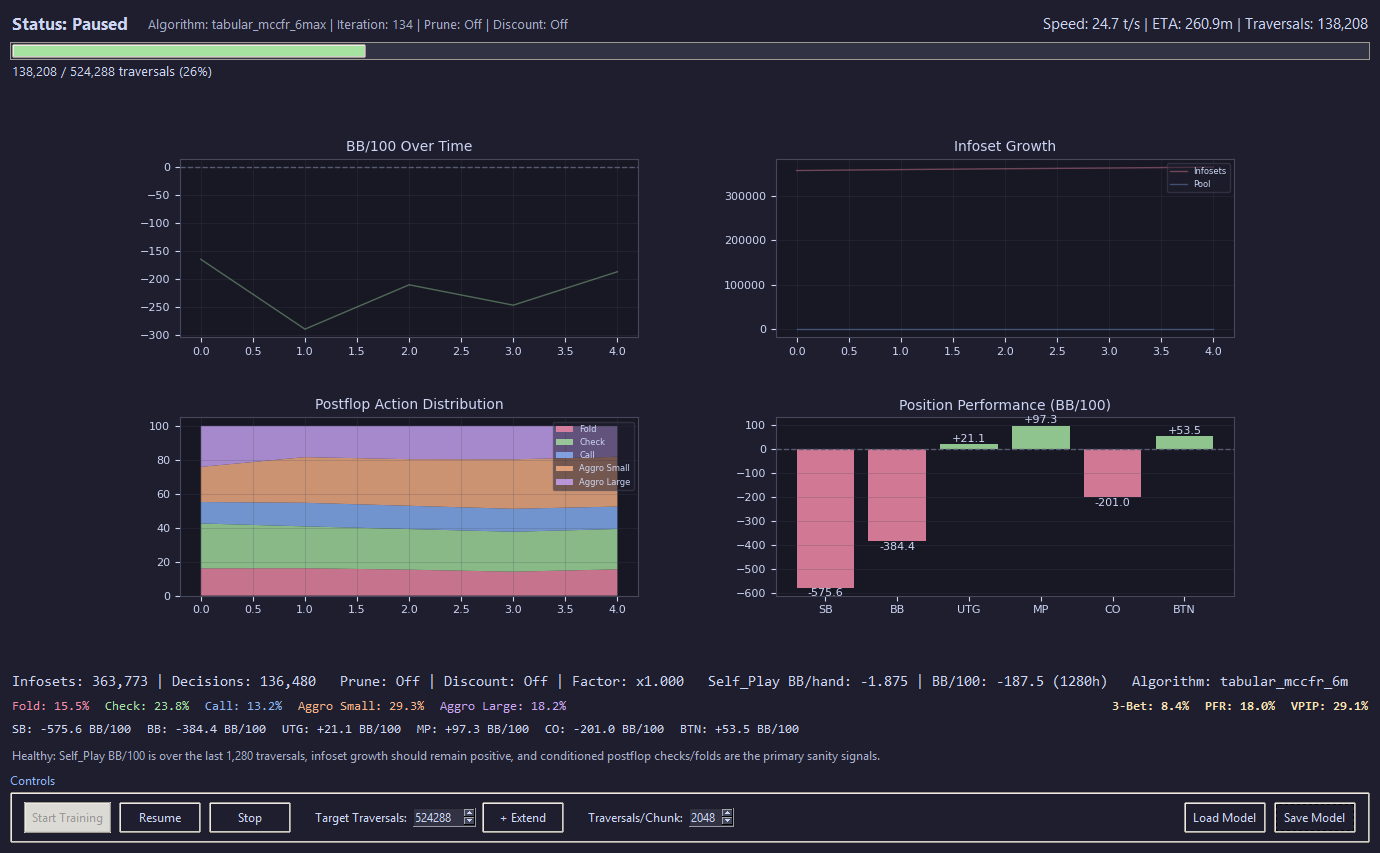
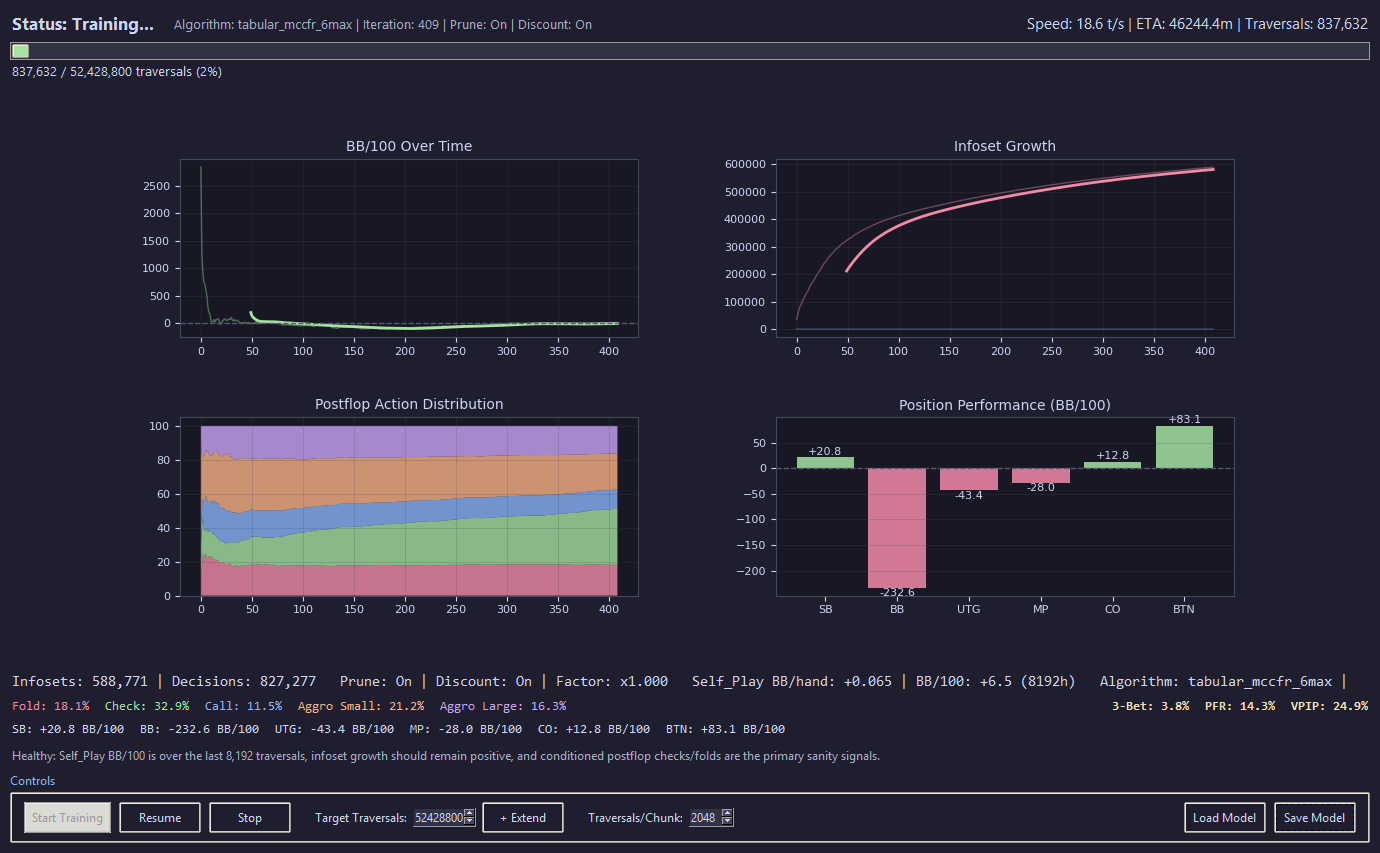
Make mobile work on cloudflare

diff --git a/next-poker-app/app/play/page.tsx b/next-poker-app/app/play/page.tsx
@@ -8,9 +8,10 @@ import PlayPhase from './components/PlayPhase';
 import ResumePrompt from './components/ResumePrompt';
 import WebcamStatus from './components/WebcamStatus';
 import { FULL_RING_SEAT_COUNT, compactSeatMap, getCompactRoleForSeat, getSeatLabel, getTablePosition } from '../lib/tablePositions';
+import { getBackendBaseUrl } from '../lib/backend';
 import type { TableSeatVisual } from './components/TableVisual';
 
-const BACKEND = process.env.NEXT_PUBLIC_BACKEND_URL?.replace(/\/$/, '') ?? 'http://localhost:8000';
+const BACKEND = getBackendBaseUrl();
 const MODEL_VERSION = 'v24';
 const SESSION_COOKIE_NAME = 'poker_session_id';
 const SESSION_COOKIE_MAX_AGE = 86400; // 24 hours

diff --git a/next-poker-app/app/lib/backend.ts b/next-poker-app/app/lib/backend.ts
@@ -1,0 +1,23 @@
+"use client";
+
+function stripTrailingSlash(value: string): string {
+  return value.replace(/\/$/, "");
+}
+
+export function getBackendBaseUrl(): string {
+  const explicitUrl = process.env.NEXT_PUBLIC_BACKEND_URL?.trim();
+  if (explicitUrl) {
+    return stripTrailingSlash(explicitUrl);
+  }
+
+  if (typeof window !== "undefined") {
+    const { hostname, protocol } = window.location;
+    if (hostname === "localhost" || hostname === "127.0.0.1") {
+      return "http://localhost:8000";
+    }
+
+    return `${protocol}//${hostname}:8000`;
+  }
+
+  return "http://localhost:8000";
+}

diff --git a/next-poker-app/app/test/page.tsx b/next-poker-app/app/test/page.tsx
@@ -11,13 +11,12 @@ import {
   createCvStreamSessionId,
   useCvWebRtcStream,
 } from "../lib/useCvWebRtcStream";
+import { getBackendBaseUrl } from "../lib/backend";
 
 type MetricTone = "neutral" | "good" | "warn" | "alert";
 
 const BLUFF_WINDOW_MS = 30_000;
-const BACKEND_BASE_URL =
-  process.env.NEXT_PUBLIC_BACKEND_URL?.replace(/\/$/, "") ??
-  "http://localhost:8000";
+const BACKEND_BASE_URL = getBackendBaseUrl();
 
 const clamp = (v: number, min: number, max: number) =>
   Math.max(min, Math.min(max, v));

diff --git a/next-poker-app/app/join/page.tsx b/next-poker-app/app/join/page.tsx
@@ -10,10 +10,10 @@ import {
   getSeatLabel,
   sixSeatLayout,
 } from '../lib/tablePositions';
+import { getBackendBaseUrl } from '../lib/backend';
 import { useCvWebRtcStream } from '../lib/useCvWebRtcStream';
 
-const BACKEND =
-  process.env.NEXT_PUBLIC_BACKEND_URL?.replace(/\/$/, '') ?? 'http://localhost:8000';
+const BACKEND = getBackendBaseUrl();
 const JOIN_PAGE_STATE_KEY = 'poker.join.page.state';
 const SESSION_STATUS_POLL_INTERVAL_MS = 3000;
 

diff --git a/next-poker-app/app/play/components/WebcamStatus.tsx b/next-poker-app/app/play/components/WebcamStatus.tsx
@@ -2,9 +2,9 @@
 
 import { useCallback, useEffect, useRef, useState } from 'react';
 import { FULL_RING_SEAT_COUNT, getSeatLabel } from '../../lib/tablePositions';
+import { getBackendBaseUrl } from '../../lib/backend';
 
-const BACKEND =
-  process.env.NEXT_PUBLIC_BACKEND_URL?.replace(/\/$/, '') ?? 'http://localhost:8000';
+const BACKEND = getBackendBaseUrl();
 const POLL_INTERVAL_MS = 3000;
 
 type OpponentStatus = {

diff --git a/README.md b/README.md
@@ -116,6 +116,40 @@ docker compose up --build backend
 docker compose logs -f backend
 ```
 
+### 4 – Access the app on your phone with Cloudflare Quick Tunnel
+
+This is the fastest way to test the site on your phone with HTTPS, which is especially helpful for camera and WebRTC flows.
+
+1. Start the backend:
+
+```powershell
+docker compose up -d backend
+cloudflared tunnel --url http://localhost:8000
+```
+
+Copy the backend `https://...trycloudflare.com` URL from the `cloudflared` output.
+
+2. Start the frontend and point it at the backend tunnel:
+
+```powershell
+$env:NEXT_PUBLIC_BACKEND_URL="https://YOUR-BACKEND-URL.trycloudflare.com"
+docker compose up -d frontend
+cloudflared tunnel --url http://localhost:3000
+```
+
+3. Open the frontend `https://...trycloudflare.com` URL on your phone.
+
+Keep both `cloudflared` terminals running while you test.
+
+> **Notes**
+>
+> - Install `cloudflared` first if needed:
+>   ```powershell
+>   winget install Cloudflare.cloudflared
+>   ```
+> - The frontend will use `NEXT_PUBLIC_BACKEND_URL` when set. If it is not set, it falls back to `localhost` on your PC or to the current hostname on your local network.
+> - Cloudflare Quick Tunnels are best for temporary development and testing, not production hosting.
+
 ## Backend API
 
 ### Poker endpoints (`/poker`)
